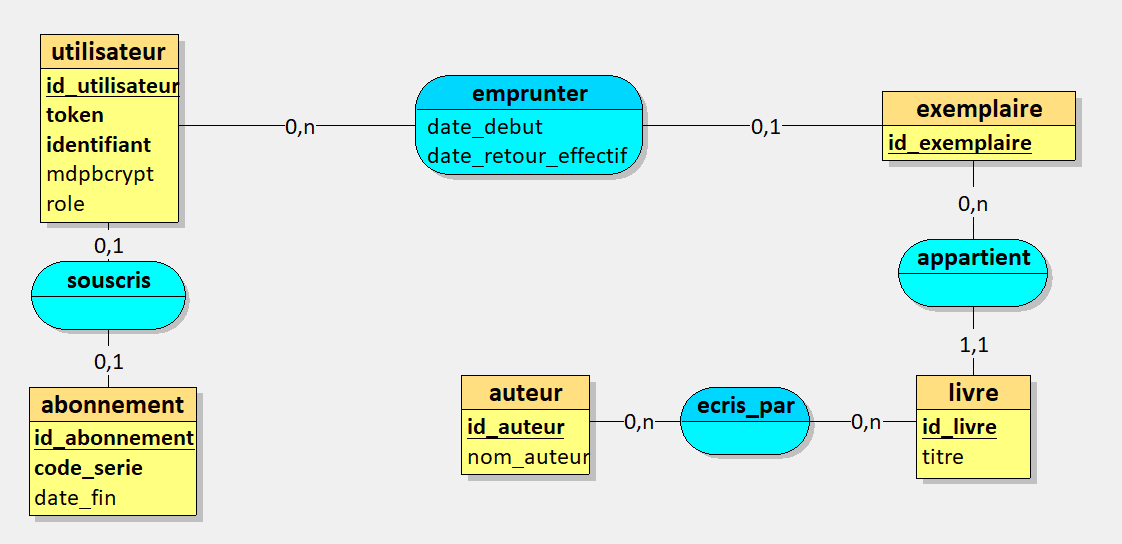
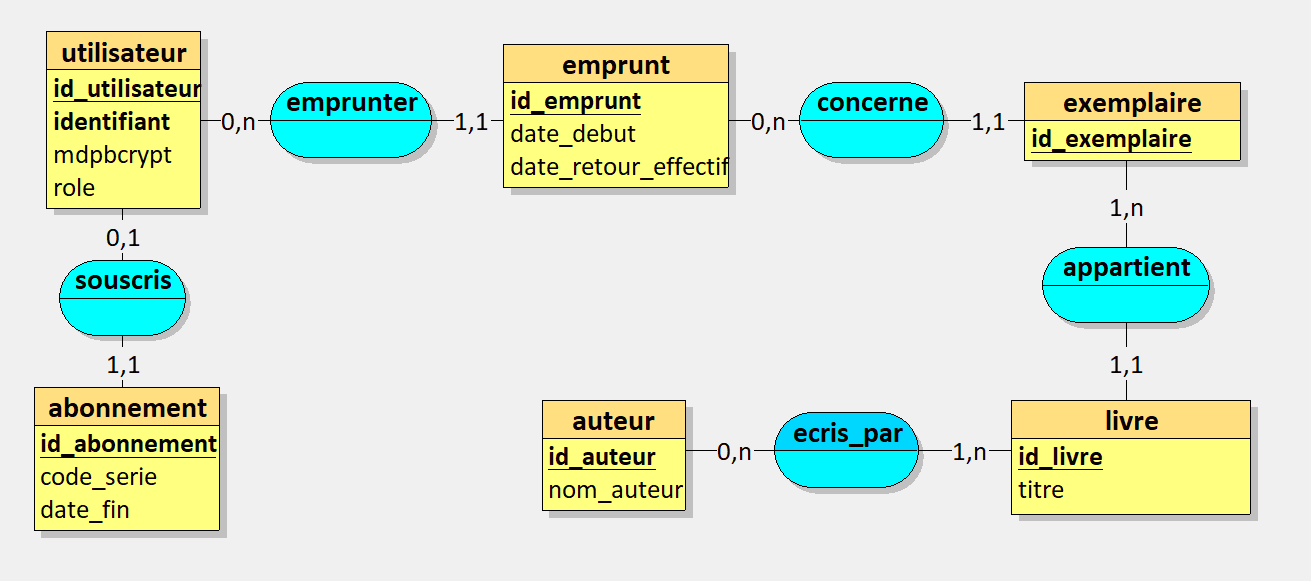
feat : modifications de relation auteur

Changed region(s): [[0.0, 0.0312, 0.967, 0.9688], [0.4055, 0.6875, 0.967, 0.9062], [0.7799, 0.3438, 0.9358, 0.6562]]

diff --git a/backend/src/services/bibliothecaireService.ts b/backend/src/services/bibliothecaireService.ts
@@ -47,6 +47,7 @@ type AjouterEmpruntBibliothecaireResult = {
 };
 
 function mapEmpruntFromDb(row: {
+    id_emprunt: number;
     id_exemplaire: number;
     id_utilisateur: number;
     identifiant: string;
@@ -59,7 +60,7 @@ function mapEmpruntFromDb(row: {
     const dateRetourPrevue = toDateTimeMinute(row.date_retour_effectif);
 
     return {
-        id: row.id_exemplaire,
+        id: row.id_emprunt,
         userId: row.id_utilisateur,
         username: row.identifiant,
         livreId: row.id_livre,
@@ -123,7 +124,7 @@ export async function modifierAuteur(payload: { auteurId: number; nom: string })
     return "succes";
 }
 
-export async function supprimerAuteur(payload: corpsSuppressionAuteur): Promise<{ status: "succes" | "confirmation_requise" | "introuvable"; livresLiesCount?: number }> {
+export async function supprimerAuteur(payload: corpsSuppressionAuteur): Promise<{ status: "succes" | "auteur_lie_a_des_livres" | "introuvable"; livresLiesCount?: number }> {
     const existing = await query<{ id_auteur: number }>(
         "SELECT id_auteur FROM auteur WHERE id_auteur = $1 LIMIT 1",
         [payload.auteurId]
@@ -135,8 +136,8 @@ export async function supprimerAuteur(payload: corpsSuppressionAuteur): Promise<
         [payload.auteurId]
     );
     const livresLiesCount = Number(links.rows[0]?.count || "0");
-    if (livresLiesCount > 0 && !payload.force) {
-        return { status: "confirmation_requise", livresLiesCount };
+    if (livresLiesCount > 0) {
+        return { status: "auteur_lie_a_des_livres", livresLiesCount };
     }
 
     await query("DELETE FROM auteur WHERE id_auteur = $1", [payload.auteurId]);
@@ -199,8 +200,12 @@ export async function listerCatalogue(): Promise<livreItem[]> {
     }));
 }
 
-export async function ajouterLivre(payload: corpsCreationLivre): Promise<{ status: "succes" | "auteurs_invalides"; id?: number }> {
+export async function ajouterLivre(payload: corpsCreationLivre): Promise<{ status: "succes" | "auteurs_invalides" | "auteur_requis"; id?: number }> {
     const auteurIds = [...new Set(payload.auteurIds)];
+    if (auteurIds.length === 0) {
+        return { status: "auteur_requis" };
+    }
+
     const auteursValidesResult = await query<{ count: string }>(
         "SELECT COUNT(*)::text AS count FROM auteur WHERE id_auteur = ANY($1::int[])",
         [auteurIds]
@@ -324,6 +329,7 @@ export async function supprimerExemplaire(payload: corpsSuppressionExemplaire): 
 
 export async function listerEmpruntsBibliothecaire(): Promise<{ empruntsActifs: empruntBibliothecaireItem[]; empruntsEnRetard: empruntBibliothecaireItem[] }> {
     const result = await query<{
+        id_emprunt: number;
         id_exemplaire: number;
         id_utilisateur: number;
         identifiant: string;
@@ -333,6 +339,7 @@ export async function listerEmpruntsBibliothecaire(): Promise<{ empruntsActifs: 
         date_retour_effectif: string | Date;
     }>(
         `SELECT
+            em.id_emprunt,
             em.id_exemplaire,
             em.id_utilisateur,
             u.identifiant,
@@ -357,6 +364,7 @@ export async function listerEmpruntsBibliothecaire(): Promise<{ empruntsActifs: 
 
 export async function listerEmpruntsClient(userId: number): Promise<{ empruntsActifs: empruntClientItem[]; empruntsEnRetard: empruntClientItem[] }> {
     const result = await query<{
+        id_emprunt: number;
         id_exemplaire: number;
         id_livre: number;
         titre: string;
@@ -364,6 +372,7 @@ export async function listerEmpruntsClient(userId: number): Promise<{ empruntsAc
         date_retour_effectif: string | Date;
     }>(
         `SELECT
+            em.id_emprunt,
             em.id_exemplaire,
             l.id_livre,
             l.titre,
@@ -381,7 +390,7 @@ export async function listerEmpruntsClient(userId: number): Promise<{ empruntsAc
         const dateDebut = toDateTimeMinute(row.date_debut);
         const dateRetourPrevue = toDateTimeMinute(row.date_retour_effectif);
         return {
-            id: row.id_exemplaire,
+            id: row.id_emprunt,
             livreId: row.id_livre,
             titreLivre: row.titre,
             dateDebut,
@@ -469,11 +478,11 @@ export async function ajouterEmpruntBibliothecaire(payload: corpsAjoutEmpruntBib
 
     const exemplaireDisponibleId = exemplaireDisponible.rows[0].id_exemplaire;
 
-    const inserted = await query<{ id_exemplaire: number }>(
+    const inserted = await query<{ id_emprunt: number }>(
         `INSERT INTO emprunt (id_utilisateur, id_exemplaire, date_debut, date_retour_effectif)
          VALUES ($1, $2, CURRENT_TIMESTAMP, CURRENT_TIMESTAMP + INTERVAL '7 days')
          ON CONFLICT (id_exemplaire) DO NOTHING
-         RETURNING id_exemplaire`,
+         RETURNING id_emprunt`,
         [userId, exemplaireDisponibleId]
     );
 
@@ -483,14 +492,14 @@ export async function ajouterEmpruntBibliothecaire(payload: corpsAjoutEmpruntBib
 }
 
 export async function confirmerRetourEmprunt(empruntId: number): Promise<"succes" | "introuvable"> {
-    const emprunt = await query<{ id_exemplaire: number }>(
-        "SELECT id_exemplaire FROM emprunt WHERE id_exemplaire = $1 LIMIT 1",
+    const emprunt = await query<{ id_emprunt: number }>(
+        "SELECT id_emprunt FROM emprunt WHERE id_emprunt = $1 LIMIT 1",
         [empruntId]
     );
     if (emprunt.rows.length === 0) return "introuvable";
 
     await query(
-        "DELETE FROM emprunt WHERE id_exemplaire = $1",
+        "DELETE FROM emprunt WHERE id_emprunt = $1",
         [empruntId]
     );
     return "succes";

diff --git a/backend/src/db/initDatabase.ts b/backend/src/db/initDatabase.ts
@@ -2,6 +2,7 @@ import bcrypt from "bcrypt";
 import { getBcryptSaltRounds } from "../constants/security.js";
 import { pool, query } from "./postgres.js";
 import { generateUniqueToken } from "../services/userService.js";
+import { Role } from "@shared/types/roles.js";
 
 async function ensureSchema(): Promise<void> {
     await query(`
@@ -60,22 +61,47 @@ CREATE TABLE IF NOT EXISTS auteur (
 
     await query(`
 CREATE TABLE IF NOT EXISTS auteur_livre (
-    id_auteur   INTEGER REFERENCES auteur(id_auteur) ON DELETE CASCADE,
+    id_auteur   INTEGER REFERENCES auteur(id_auteur) ON DELETE RESTRICT,
     id_livre    INTEGER REFERENCES livre(id_livre) ON DELETE CASCADE,
     PRIMARY KEY (id_auteur, id_livre)
 );
 `);
 
     await query(`
+DO $$
+BEGIN
+    IF EXISTS (
+        SELECT 1
+        FROM information_schema.table_constraints
+        WHERE constraint_name = 'auteur_livre_id_auteur_fkey'
+          AND table_name = 'auteur_livre'
+    ) THEN
+        ALTER TABLE auteur_livre DROP CONSTRAINT auteur_livre_id_auteur_fkey;
+    END IF;
+
+    ALTER TABLE auteur_livre
+        ADD CONSTRAINT auteur_livre_id_auteur_fkey
+        FOREIGN KEY (id_auteur)
+        REFERENCES auteur(id_auteur)
+        ON DELETE RESTRICT;
+EXCEPTION
+    WHEN duplicate_object THEN
+        NULL;
+END
+$$;
+`);
+
+    await query(`
 CREATE TABLE IF NOT EXISTS emprunt (
+    id_emprunt              INTEGER GENERATED ALWAYS AS IDENTITY PRIMARY KEY,
     id_utilisateur          INTEGER NOT NULL REFERENCES utilisateur(id_utilisateur),
     id_exemplaire           INTEGER NOT NULL UNIQUE REFERENCES exemplaire(id_exemplaire),
     date_debut              TIMESTAMP NOT NULL,
-    date_retour_effectif    TIMESTAMP NOT NULL,
-    PRIMARY KEY (id_exemplaire)
+    date_retour_effectif    TIMESTAMP NOT NULL
 );
 `);
-}
+};
+
 
 async function ensureAdminFromEnv(): Promise<void> {
     const adminUsername = process.env.ADMIN_USERNAME?.trim() || "admin";
@@ -89,12 +115,11 @@ async function ensureAdminFromEnv(): Promise<void> {
         id_utilisateur: number;
         mdpbcrypt: string;
         token_utilisateur: string;
-        role: "admin" | "client" | "bibliothecaire";
+        role: Role;
     }>(
         "SELECT id_utilisateur, mdpbcrypt, token_utilisateur, role FROM utilisateur WHERE identifiant = $1 LIMIT 1",
         [adminUsername]
-    );
-
+    )
     if (existing.rows.length === 0) {
         const hash = await bcrypt.hash(adminPassword, getBcryptSaltRounds());
         const adminToken = await generateUniqueToken(50);

diff --git a/backend/src/tests/bibliothecaire.test.ts b/backend/src/tests/bibliothecaire.test.ts
@@ -53,6 +53,43 @@ test("Bibliothecaire : ajoute un auteur et un livre avec exemplaire par defaut",
     }
 });
 
+test("Bibliothecaire : refuse la creation d'un livre sans auteur", async () => {
+    const livreTitre = genererNomUnique("biblio_test_livre_sans_auteur");
+
+    const livreCreation = await bibliothecaireService.ajouterLivre({ titre: livreTitre, auteurIds: [] });
+    assert.equal(livreCreation.status, "auteur_requis");
+});
+
+test("Bibliothecaire : refuse la suppression d'un auteur lie a des livres", async () => {
+    const auteurNom = genererNomUnique("biblio_test_auteur_suppression_bloquee");
+    const livreTitre = genererNomUnique("biblio_test_livre_suppression_bloquee");
+
+    let auteurId: number | undefined;
+    let livreId: number | undefined;
+
+    try {
+        const auteurCreation = await bibliothecaireService.ajouterAuteur(auteurNom);
+        assert.equal(auteurCreation.status, "succes");
+        auteurId = auteurCreation.id;
+        assert.ok(auteurId);
+
+        const livreCreation = await bibliothecaireService.ajouterLivre({
+            titre: livreTitre,
+            auteurIds: [auteurId]
+        });
+        assert.equal(livreCreation.status, "succes");
+        livreId = livreCreation.id;
+        assert.ok(livreId);
+
+        const suppression = await bibliothecaireService.supprimerAuteur({ auteurId, force: true });
+        assert.equal(suppression.status, "auteur_lie_a_des_livres");
+        assert.ok((suppression.livresLiesCount || 0) >= 1);
+    } finally {
+        if (livreId) await bibliothecaireService.supprimerLivre(livreId).catch(() => undefined);
+        if (auteurId) await bibliothecaireService.supprimerAuteur({ auteurId }).catch(() => undefined);
+    }
+});
+
 test("Bibliothecaire : cree un emprunt puis confirme le retour", async () => {
     const auteurNom = genererNomUnique("biblio_test_auteur_emprunt");
     const livreTitre = genererNomUnique("biblio_test_livre_emprunt");
@@ -278,7 +315,7 @@ test("Bibliothecaire : bloque un nouvel emprunt si le client a un emprunt en ret
         assert.ok(empruntActifId);
 
         await postgres.query(
-            "UPDATE emprunt SET date_retour_effectif = CURRENT_TIMESTAMP - INTERVAL '10 days' WHERE id_exemplaire = $1",
+            "UPDATE emprunt SET date_retour_effectif = CURRENT_TIMESTAMP - INTERVAL '10 days' WHERE id_emprunt = $1",
             [empruntActifId]
         );
 

diff --git a/backend/src/scripts/seedTestData.ts b/backend/src/scripts/seedTestData.ts
@@ -188,8 +188,8 @@ async function ensureEmpruntEnRetardAncien(codeSerieAbonnement: string, titreLiv
         throw new Error(`Livre cible introuvable pour l'emprunt en retard: ${titreLivreCible}`);
     }
 
-    const empruntsClientAvant = await query<{ id_exemplaire: number; id_livre: number }>(
-        `SELECT e.id_exemplaire, e.id_livre
+    const empruntsClientAvant = await query<{ id_emprunt: number; id_exemplaire: number; id_livre: number }>(
+        `SELECT em.id_emprunt, e.id_exemplaire, e.id_livre
          FROM emprunt em
          JOIN exemplaire e ON e.id_exemplaire = em.id_exemplaire
          WHERE em.id_utilisateur = $1`,
@@ -207,12 +207,12 @@ async function ensureEmpruntEnRetardAncien(codeSerieAbonnement: string, titreLiv
         }
     }
 
-    const empruntsClientApres = await query<{ id_exemplaire: number; id_livre: number }>(
-        `SELECT e.id_exemplaire, e.id_livre
+    const empruntsClientApres = await query<{ id_emprunt: number; id_exemplaire: number; id_livre: number }>(
+        `SELECT em.id_emprunt, e.id_exemplaire, e.id_livre
          FROM emprunt em
          JOIN exemplaire e ON e.id_exemplaire = em.id_exemplaire
          WHERE em.id_utilisateur = $1
-         ORDER BY e.id_exemplaire ASC`,
+         ORDER BY em.id_emprunt ASC`,
         [clientUserId]
     );
 
@@ -227,8 +227,8 @@ async function ensureEmpruntEnRetardAncien(codeSerieAbonnement: string, titreLiv
         `UPDATE emprunt
          SET date_debut = CURRENT_TIMESTAMP - INTERVAL '20 days',
              date_retour_effectif = CURRENT_TIMESTAMP - INTERVAL '12 days'
-         WHERE id_exemplaire = $1`,
-        [empruntCible.id_exemplaire]
+         WHERE id_emprunt = $1`,
+        [empruntCible.id_emprunt]
     );
 }
 

diff --git a/backend/src/controllers/bibliothecaireController.ts b/backend/src/controllers/bibliothecaireController.ts
@@ -114,12 +114,11 @@ export async function supprimerAuteurControleur(req: Request<{}, reponseSuppress
             return res.status(404).json({ success: false, reason: "Auteur introuvable" });
         }
 
-        if (result.status === "confirmation_requise") {
+        if (result.status === "auteur_lie_a_des_livres") {
             return res.status(409).json({
                 success: false,
-                reason: "Auteur lié à des livres",
-                livresLiesCount: result.livresLiesCount,
-                besoinConfirmation: true
+                reason: "Impossible de supprimer un auteur lié à des livres",
+                livresLiesCount: result.livresLiesCount
             });
         }
 
@@ -141,6 +140,9 @@ export async function ajouterLivreControleur(req: Request<{}, reponseCreationLiv
         }
 
         const result = await ajouterLivre({ titre, auteurIds });
+        if (result.status === "auteur_requis") {
+            return res.status(400).json({ success: false, reason: "Au moins un auteur est requis" });
+        }
         if (result.status === "auteurs_invalides") {
             return res.status(400).json({ success: false, reason: "Un ou plusieurs auteurs sont invalides" });
         }

diff --git a/README.md b/README.md
@@ -44,7 +44,9 @@ Relations importantes:
 - Un utilisateur peut avoir plusieurs emprunts.
 - Un exemplaire appartient à un seul livre.
 - Un livre peut avoir plusieurs exemplaires.
-- Un livre peut avoir zéro, un ou plusieurs auteurs (et vice versa).
+- Un livre doit avoir au moins un auteur (et peut en avoir plusieurs).
+- Lors de l'ajout d'un auteur, il n'est lié à aucun livre, puis peut être lié lors de l'ajout ou de la modification d'un livre.
+- Un auteur ne peut pas être supprimé tant qu'il est lié à au moins un livre.
 - Un utilisateur peut avoir un abonnement.
 
 ## Contraintes métier d'emprunt
